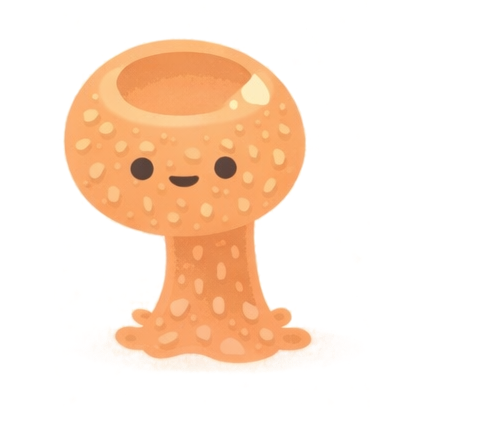
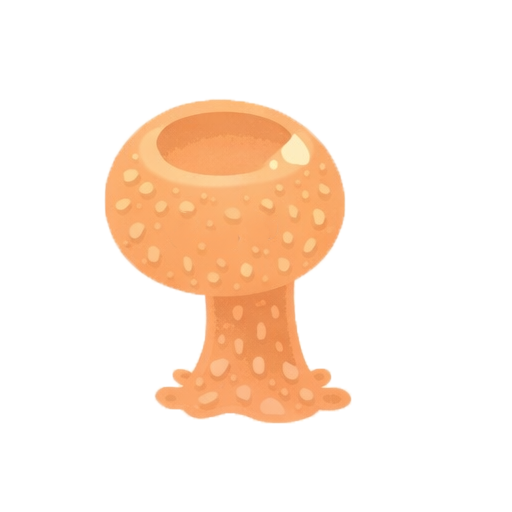
assets: swap to eye-less bases; wire per-pair hybrid PNGs; drop rainbow
- overwrite 6 /public/assets/characters/char*_radial.png bases with the
  eye-less _clean versions; FaceOverlay now owns all eyes programmatically
- add 15 hand-drawn pair hybrid PNGs (hybrid_A_B..hybrid_E_F)
- delete hybrid_rainbow.png and remove HYBRID_ASSET constant
- new hybridAsset(a, b): CharId pair -> sorted letter-pair filename
- Entity accepts parentIds: [CharId, CharId]; LiveEntity.parentIds
  stores charIds (not entity ids) so hybrids resolve their sprite
- fusion now records [f.a.charId, f.b.charId] at hybrid spawn time

https://claude.ai/code/session_01JYRH1GoVCC8iwDGa9B2uzu

Changed region(s): [[0.124, 0.0897, 0.6818, 0.8667]]

diff --git a/src/components/Entity.tsx b/src/components/Entity.tsx
@@ -9,15 +9,15 @@
  *   5. Breathe     scale [1, 1.04, 1] infinite (3.5s)
  *
  * Phase C: CSS `saturate(...)` filter applied to img for loneliness.
- * Phase D: isHybrid swaps to HYBRID_ASSET, skips FaceOverlay, plays a
- *          one-shot aura ring on birth.
+ * Phase D: isHybrid swaps to the pair-specific hybridAsset(parentIds),
+ *          skips FaceOverlay, plays a one-shot aura ring on birth.
  */
 import { useEffect, useRef, useState } from 'react';
 import { motion, useAnimationControls } from 'framer-motion';
 import {
   CHARACTERS,
   charAsset,
-  HYBRID_ASSET,
+  hybridAsset,
   type CharId,
 } from '../data/characters';
 import { FaceOverlay, type ExpressionKind } from './FaceOverlay';
@@ -34,8 +34,10 @@ export interface EntityProps {
   greetingPulse?: number;
   /** 0..1 CSS saturate() factor. Phase C desaturates on lonely exposure. */
   saturation?: number;
-  /** Phase D: rainbow hybrid spawned when a compatible pair fuses. */
+  /** Phase D: hand-drawn pair hybrid spawned when a compatible pair fuses. */
   isHybrid?: boolean;
+  /** Parent CharIds for hybrid sprite lookup (required when isHybrid). */
+  parentIds?: [CharId, CharId];
   onMount?: () => void;
 }
 
@@ -66,6 +68,7 @@ export function Entity({
   greetingPulse = 0,
   saturation = 1,
   isHybrid = false,
+  parentIds,
   onMount,
 }: EntityProps) {
   const character = CHARACTERS[charId];
@@ -131,7 +134,9 @@ export function Entity({
 
   const growScale = isHybrid ? [0, 1.25, 1] : [0, 1.1, 1];
   const growDuration = isHybrid ? 2.2 : 1.8;
-  const src = isHybrid ? HYBRID_ASSET : charAsset(charId);
+  const src = isHybrid && parentIds
+    ? hybridAsset(parentIds[0], parentIds[1])
+    : charAsset(charId);
 
   return (
     <motion.div

diff --git a/src/App.tsx b/src/App.tsx
@@ -22,7 +22,7 @@ interface LiveEntity {
   greetingPulse: number;
   lonelyExposure: number;
   isHybrid?: boolean;
-  parentIds?: [string, string];
+  parentIds?: [CharId, CharId];
   rationale?: string;
 }
 
@@ -149,7 +149,7 @@ export default function App() {
             greetingPulse: 0,
             lonelyExposure: 0,
             isHybrid: true,
-            parentIds: [f.a.id, f.b.id],
+            parentIds: [f.a.charId, f.b.charId],
           };
           updated = [...updated, hybrid];
         }
@@ -255,6 +255,7 @@ export default function App() {
             greetingPulse={e.greetingPulse}
             saturation={sat}
             isHybrid={e.isHybrid}
+            parentIds={e.parentIds}
           />
         );
       })}

diff --git a/src/data/characters.ts b/src/data/characters.ts
@@ -79,10 +79,15 @@ export const CHARACTERS: Record<CharId, Character> = {
   },
 };
 
-export const HYBRID_ASSET = '/assets/characters/hybrid_rainbow.png';
-
 export function charAsset(id: CharId): string {
   return `/assets/characters/${CHARACTERS[id].slug}.png`;
+}
+
+const HYBRID_LETTER: Record<CharId, string> = { 0: 'A', 1: 'B', 2: 'C', 3: 'D', 4: 'E', 5: 'F' };
+
+export function hybridAsset(a: CharId, b: CharId): string {
+  const [lo, hi] = a <= b ? [a, b] : [b, a];
+  return `/assets/characters/hybrid_${HYBRID_LETTER[lo]}_${HYBRID_LETTER[hi]}.png`;
 }
 
 /** Lookup charId from an emotion label; defaults to 0 if unknown. */
